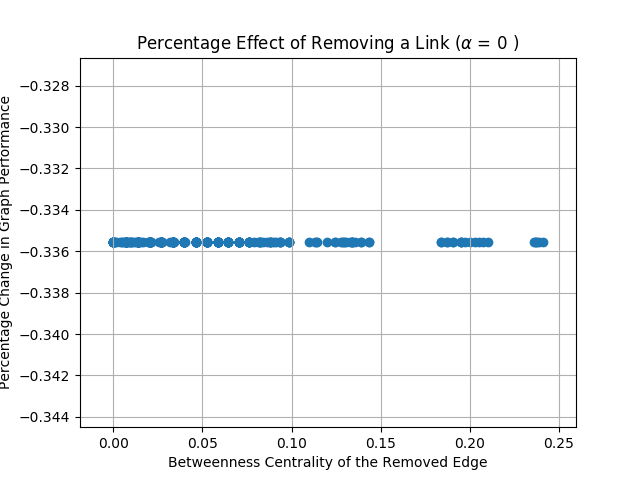
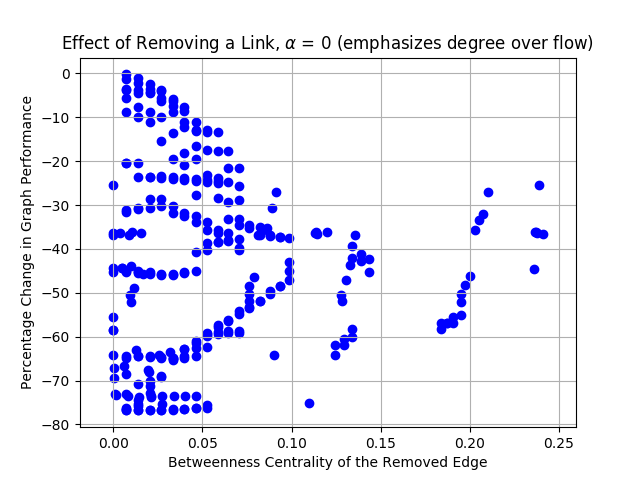
Keep track of path distance. Add plots for missed trips and difference in distances

diff --git a/modifying_edges.py b/modifying_edges.py
@@ -14,17 +14,25 @@ import time
 
 def delete_one_edge_and_evaluate(graph, test_type=None, 
     x_axis_data=["flows"], alpha=2):
-
+    
+    overall_start_time = time.time()
     graph = deepcopy(graph)
     edge_centralities = nx.edge_betweenness_centrality(graph.G, weight="flow")
-    unmodified_alpha_0_score = graph_measure(graph, "activity_and_popularity", alpha=-1)
-    unmodified_alpha_1_score = graph_measure(graph, "activity_and_popularity", alpha=2)
-    unmodified_metro_score = graph_measure(graph, "metro_performance")
+    unmodified_alpha_0_score = graph_measure(graph, "activity_and_popularity", alpha=0)
+    unmodified_alpha_1_score = graph_measure(graph, "activity_and_popularity", alpha=1)
+    unmodified_metro_score = graph_measure(graph, "metro_performance", missed_trips=0, removed_edge_dist=0)
     
     removal_effects_alpha_0, removal_effects_alpha_1, removal_effects, centralities = [], [], [], []
-    edges_in_order, missed_trips, flows, distances, = [], [], [], []
+    edges_in_order, missed_trips, flows, distances, changed_trips_distance, conserved_trips = [], [], [], [], [], []
+    
+    # missed, changed_dist, conserved = graph.fill_flows_from_mapped_data(
+    #     removed_edge=edge, removed_edge_dist=distance
+    # )
+    # missed_trips.append(missed)
+    # changed_trips_distance.append(changed_dist)
+    # conserved_trips.append(conserved)
+    
     i = 0
-    overall_start_time = time.time()
     start_time = time.time()
     for edge in edge_centralities:
         # Get an in-order record of the edges and their flows
@@ -37,17 +45,21 @@ def delete_one_edge_and_evaluate(graph, test_type=None,
         
         # Experiment part 1: Remove an edge
         graph.remove_edge(edge=edge)
-        missed, changed, conserved = graph.fill_flows_from_mapped_data(removed_edge=edge)
+        missed, changed_dist, conserved = graph.fill_flows_from_mapped_data(
+            removed_edge=edge, removed_edge_dist=distance
+        )
         missed_trips.append(missed)
+        changed_trips_distance.append(changed_dist)
+        conserved_trips.append(conserved)
         
         # Run all the experiments back to back because it's faster that way
-        measure = graph_measure(graph, "activity_and_popularity", alpha=-1)
+        measure = graph_measure(graph, "activity_and_popularity", alpha=0)
         effect = ((measure - unmodified_alpha_0_score)/unmodified_alpha_0_score)*100.0
         removal_effects_alpha_0.append(effect)
-        measure = graph_measure(graph, "activity_and_popularity", alpha=2)
+        measure = graph_measure(graph, "activity_and_popularity", alpha=1)
         effect = ((measure - unmodified_alpha_1_score)/unmodified_alpha_1_score)*100.0
         removal_effects_alpha_1.append(effect)
-        measure = graph_measure(graph, "metro_performance")
+        measure = graph_measure(graph, "metro_performance", missed_trips=missed)
         effect = ((measure - unmodified_metro_score)/unmodified_metro_score)*100.0
         removal_effects.append(effect)
         
@@ -57,14 +69,14 @@ def delete_one_edge_and_evaluate(graph, test_type=None,
         
         # Add some logging so that we don't lose hope
         i += 1
-        if i == 100:
+        if i == 150:
             break
         if i % 1 == 0:
             end_time = time.time() 
             print(
                 "{0:4}".format(i), ": {0:5.2f}".format(end_time - start_time), "sec", 
                 "  {0:7}".format("{0:,}".format(missed)), "missed", 
-                "  {0:7}".format("{0:,}".format(changed)), "changed", 
+                "  {0:10}".format("{0:.2f}".format(changed_dist)), "changed_dist", 
                 "  {0:7}".format("{0:,}".format(conserved)), "conserved"
             )
             start_time = time.time()
@@ -90,20 +102,20 @@ def delete_one_edge_and_evaluate(graph, test_type=None,
             "xlabel": "Length of the Removed Edge (km)"
         },
         "metro_performance": {
-            "title": "Percentage Effect of Removing a Link",
+            "title": "Effect on Utility/Cost Analysis of Removing a Link",
             "file_name": "metro_performance_"
         },
         "activity_and_popularity_0": {
-            "title": r"Percentage Effect of Removing a Link ($\alpha$ = " + str(0) + " )",
+            "title": r"Effect of Removing a Link, $\alpha$ = " + str(0) + " (emphasizes degree over flow)",
             "file_name": "activity_and_popularity_alpha_" + str(0) + "_"
         },
         "activity_and_popularity_1": {
-            "title": r"Percentage Effect of Removing a Link ($\alpha$ = " + str(1) + " )",
+            "title": r"Effect of Removing a Link, $\alpha$ = " + str(1) + " (emphasizes flow over degree)",
             "file_name": "activity_and_popularity_alpha_" + str(1) + "_"
         }
     }
     
-    def helper_make_plots(y=None, title_key=None)
+    def helper_make_plots(y=None, title_key=None):
         for this_x_axis_data in x_axis_data:
             make_plot(
                 x=plot_options[this_x_axis_data]["x_on_the_plot"], 
@@ -114,9 +126,27 @@ def delete_one_edge_and_evaluate(graph, test_type=None,
                 file_name=plot_options[title_key]["file_name"] + this_x_axis_data + ".png"
             )
     
-    helper_make_plots(y=removal_effects, title_key="metro_performance")
-    helper_make_plots(y=removal_effects_alpha_0, title_key="activity_and_popularity_0")
-    helper_make_plots(y=removal_effects_alpha_1, title_key="activity_and_popularity_1")
+    make_plot(
+        x=centralities, 
+        y=missed_trips, type_of_plot="scatter",
+        ylabel="# of Trips That Became Infeasible", 
+        xlabel="Centrality of Removed Node",
+        title="Effect of the Centrality on the # of Infeasible Trips",
+        file_name="infeasible_trips_against_centrality.png"
+    )
+    
+    make_plot(
+        x=centralities, 
+        y=changed_trips_distance, type_of_plot="scatter",
+        ylabel="Change in Total Distance Travelled (km)", 
+        xlabel="Centrality of Removed Node",
+        title="Effect of the Centrality on the Distance Travelled",
+        file_name="changed_trips_against_centrality.png"
+    )
+    
+    # helper_make_plots(y=removal_effects, title_key="metro_performance")
+    # helper_make_plots(y=removal_effects_alpha_0, title_key="activity_and_popularity_0")
+    # helper_make_plots(y=removal_effects_alpha_1, title_key="activity_and_popularity_1")
     
     indexes_in_sorted_list = np.argsort(removal_effects)
         
@@ -124,10 +154,10 @@ def delete_one_edge_and_evaluate(graph, test_type=None,
         for index in stats_indexes:
             print(
                 "{0:60}".format(str(edges_in_order[index])), 
-                " centrality  =", "{0:.4f}".format(centralities[index]),  
-                " flow        =", flows[index],
+                " centrality =", "{0:.4f}".format(centralities[index]),  
+                " flow =", flows[index],
                 " length (km) =", "{0:.4f}".format(distances[index]),
-                " effect (%)  =", "{0:.4f}".format(removal_effects[index])
+                " effect (%) =", "{0:.4f}".format(removal_effects[index])
             )
     
     print_stats(indexes_in_sorted_list[-2:])
@@ -144,7 +174,7 @@ def graph_measure(graph, test_type, **kwargs):
         alpha = kwargs["alpha"]
         return graph.graph_popularity(alpha=alpha) + graph.graph_activity(alpha=alpha)
     elif test_type == "metro_performance":
-        return graph.metro_network_performance(utility_over_cost=10)
+        return graph.metro_network_performance(utility_over_cost=10, missed_trips=kwargs["missed_trips"])
 
 def make_plot(x=None, y=None, xlabel=None, ylabel=None, title=None, 
     type_of_plot=None, file_name=None, **kwargs):

diff --git a/create_metro_graph.py b/create_metro_graph.py
@@ -67,12 +67,14 @@ class metro_graph():
         # Cache the routes followed by each journey since fill_flows_from_mapped_data()
         # has poor performance (~50 seconds per run)
         self.previous_path_for_journeys = {}
+        self.previous_path_lengths_for_journeys = {}
         for journey in self.journeys:
             self.previous_path_for_journeys[journey] = []
+            self.previous_path_lengths_for_journeys[journey] = []
         
         # Set the default values for the edges
         for edge in self.edges():
-            self.add_attribute_to_edge(edge=edge, capacity=50000, flow=0)
+            self.add_attribute_to_edge(edge=edge, capacity=80000, flow=0)
         
         self.fill_flows_from_mapped_data()
     
@@ -153,14 +155,16 @@ class metro_graph():
             for edge in self.edges():
                 self.add_attribute_to_edge(edge=edge, flow=random.randint(1, max_n))
                 
-    def fill_flows_from_mapped_data(self, removed_edge=None):
+    def fill_flows_from_mapped_data(self, removed_edge=None, removed_edge_dist=None):
         all_shortest_paths = nx.shortest_path(self.G, weight="distance")
-        num_missed_trips, num_changed_trips, num_conserved_trips = 0, 0, 0
+        all_shortest_paths_lengths = nx.shortest_path_length(self.G, weight="distance")
+        num_missed_trips, changed_trips_distance, num_conserved_trips = 0, 0, 0
         for journey in self.journeys:
             flow = self.journeys[journey]
             try:
                 shortest_path = all_shortest_paths[journey[0]][journey[1]]
-
+                shortest_path_length = all_shortest_paths_lengths[journey[0]][journey[1]]
+                
                 if shortest_path == self.previous_path_for_journeys[journey]:
                     # If the trips haven't been affected by the change, do nothing
                     num_conserved_trips += flow
@@ -175,6 +179,7 @@ class metro_graph():
                         
                     # Avoid double counting the trips
                     previous_shortest_path = self.previous_path_for_journeys[journey]
+                    previous_shortest_path_length = self.previous_path_lengths_for_journeys[journey]
                     hops = len(previous_shortest_path) - 1
                     negated_flow = flow * -1
                     for i in range(hops):
@@ -184,12 +189,12 @@ class metro_graph():
                         self._helper_for_adjusting_flow(edge, negated_flow)
                     
                     self.previous_path_for_journeys[journey] = shortest_path
-                    num_changed_trips += flow
                     
             except Exception as e:
+                # For all the currently infeasible trips
                 num_missed_trips += flow
   
-        return num_missed_trips, num_changed_trips, num_conserved_trips
+        return num_missed_trips, changed_trips_distance, num_conserved_trips
     
     def _helper_for_adjusting_flow(self, edge, delta_flow):
         temp = self.get_edge_attribute(
@@ -251,7 +256,7 @@ class metro_graph():
         inward_edges = self.edges(nodes=node, incoming=True)
         return self._sum_weights_to_power_alpha(alpha, inward_edges, edge_attribute)
     
-    def metro_network_performance(self, cost_per_unit_distance=10, utility_over_cost=2):
+    def metro_network_performance(self, cost_per_unit_distance=10, utility_over_cost=2, missed_trips=0):
         """
         Rationale:
         1. Reward people getting to destinations through shorter routes 
@@ -274,8 +279,9 @@ class metro_graph():
             
             utility = (flow * distance) * utility_over_cost
             cost = (distance * cost_per_unit_distance + inefficiency) / utility_over_cost
-            running_sum += utility - cost 
-        return running_sum
+            running_sum += utility - cost
+            
+        return running_sum - (missed_trips * utility_over_cost)
             
     
 def main():
